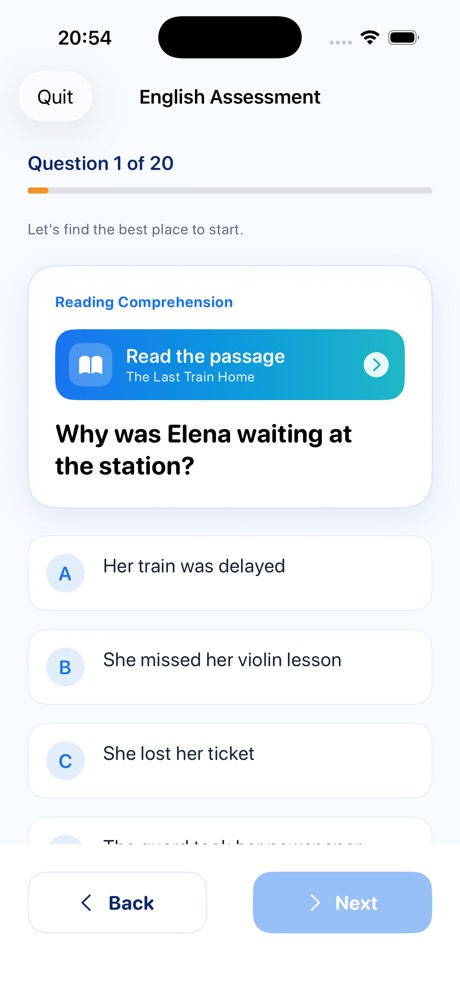
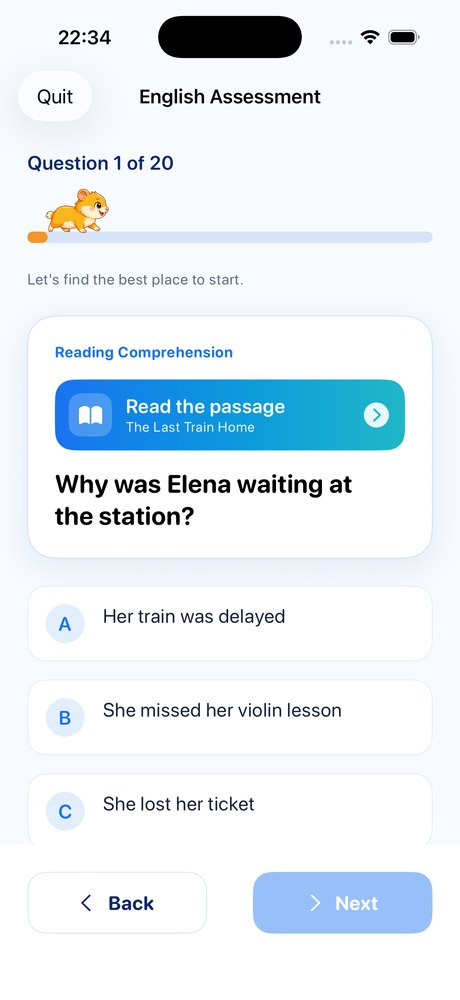
Show Taco walking the progress bar, and tell children about the race
Taco now walks along the progress bar on every set of questions in the
app, so the three screenshots that showed the old plain bar were out of
date: the question screen, the working-out notepad and the English
starting assessment are all retaken.

Adds a "Race Taco to the finish line" section to the kids' guide, with a
new screenshot of him a third of the way along. It explains the bit
children notice first — he waits while you think, and the orange bar
chases him down and catches him at the end.

diff --git a/kids/index.html b/kids/index.html
@@ -4,7 +4,7 @@
 <meta charset="utf-8">
 <meta name="viewport" content="width=device-width, initial-scale=1">
 <title>Kids' guide — 11+ Test Coach</title>
-<meta name="description" content="What 11+ Test Coach looks like for your child: daily missions, XP and streaks, the squared-paper working-out notepad, Taco's Corner, colour themes and unlockable outfits.">
+<meta name="description" content="What 11+ Test Coach looks like for your child: daily missions, racing Taco along the progress bar, XP and streaks, the squared-paper working-out notepad, Taco's Corner, colour themes and unlockable outfits.">
 <link rel="stylesheet" href="/style.css">
 <link rel="icon" href="/assets/taco-wave.png" type="image/png">
 <meta property="og:title" content="Kids' guide — 11+ Test Coach">
@@ -43,6 +43,7 @@
 
     <nav class="toc">
       <a href="#missions">Daily missions</a>
+      <a href="#race">The race with Taco</a>
       <a href="#xp">XP, streaks &amp; unlocks</a>
       <a href="#notepad">The working-out notepad</a>
       <a href="#taco-help">Taco's help</a>
@@ -67,6 +68,26 @@
         <aside>
           <div class="shot"><img src="/assets/screens/child-mission.jpg" alt="Today's mission screen with topics, XP badge and Start Mission button" loading="lazy"></div>
           <div class="shot-caption">Ten questions, about eight minutes, +50 XP.</div>
+        </aside>
+      </div>
+    </section>
+
+    <section id="race">
+      <div class="guide-section">
+        <div class="guide-copy">
+          <div class="kicker">Every question</div>
+          <h2>Race Taco to the finish line</h2>
+          <p>Start any set of questions and Taco is waiting at the beginning of the progress bar. Answer one, and he trots forward — legs going properly — with the orange bar rolling along right behind him. Answer another, and off he goes again.</p>
+          <ul>
+            <li><b>He waits while you think.</b> Taco stands still until an answer goes in, so nothing wriggles about while your child reads the question.</li>
+            <li><b>The bar chases him down.</b> Taco stays just ahead of the orange, and it catches him up at the very end — finish the mission and they cross the line together.</li>
+            <li><b>It happens everywhere.</b> Maths, English, verbal, non-verbal, mistakes practice and the starting assessment all get the same little race.</li>
+          </ul>
+          <p>It sounds like a small thing. It isn't: "how far has Taco got?" turns ten questions into something worth finishing, and children can see at a glance that the end is close.</p>
+        </div>
+        <aside>
+          <div class="shot"><img src="/assets/screens/taco-race.jpg" alt="Maths question screen with Taco walking along the progress bar at question 4 of 10" loading="lazy"></div>
+          <div class="shot-caption">Four questions in, and Taco is a third of the way home.</div>
         </aside>
       </div>
     </section>
@@ -105,8 +126,8 @@
           <p>No more hunting for scrap paper at the kitchen table — the working out happens where the question is.</p>
         </div>
         <aside>
-          <div class="shot"><img src="/assets/screens/scratchpad.jpg" alt="Maths question with the squared-paper working-out notepad open and 25 drawn on it" loading="lazy"></div>
-          <div class="shot-caption">? + 7 = 32 — worked out the proper way.</div>
+          <div class="shot"><img src="/assets/screens/scratchpad.jpg" alt="Maths question with the squared-paper working-out notepad open and 56 drawn on it" loading="lazy"></div>
+          <div class="shot-caption">How many tens in 560? — worked out the proper way.</div>
         </aside>
       </div>
     </section>
